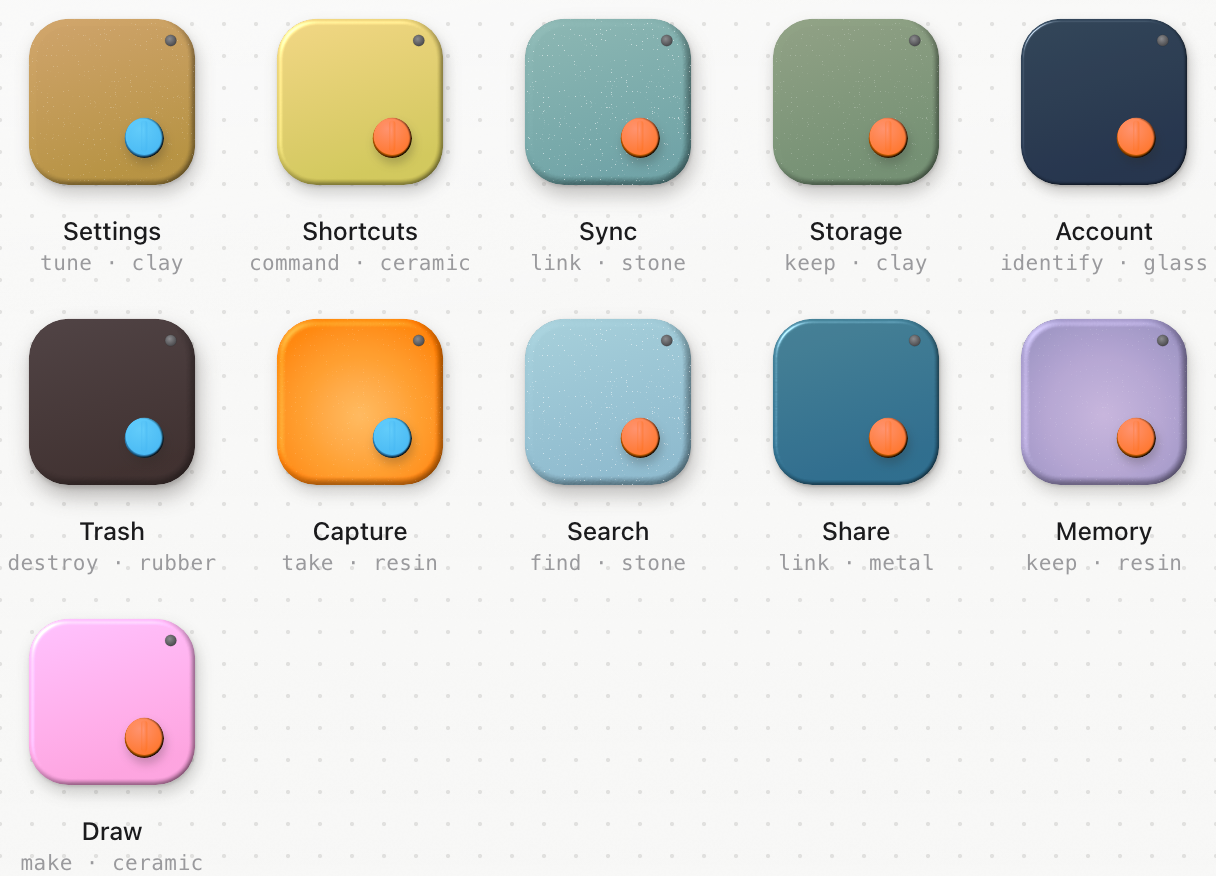
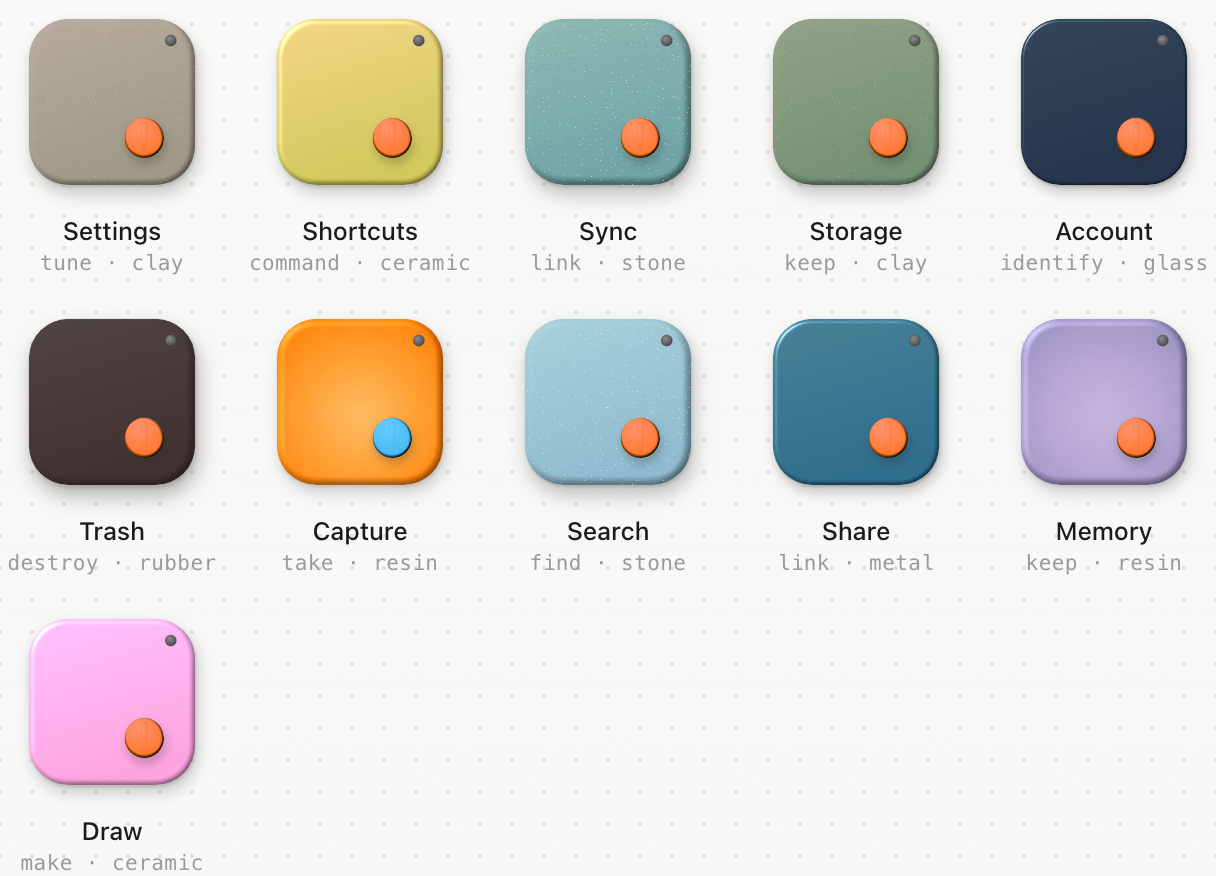
feat(gadgets): grey hardware keeps its orange accent
The accent flips to sky only when the body sits near orange and is colourful
enough to clash (chroma 0.04 or more); a warm grey or near-black body keeps
the house orange. The tune job caps its body chroma at 0.025, so Settings
resolves to warm grey clay with an orange cap, as the reference hardware.
Web and SwiftUI resolve alike (parity fixture regenerated).

Changed region(s): [[0.0, 0.0, 0.1875, 0.2158], [0.0938, 0.4623, 0.1562, 0.524]]

diff --git a/swift/Sources/MetalUI/Tokens/MetalGadgetFeel.generated.swift b/swift/Sources/MetalUI/Tokens/MetalGadgetFeel.generated.swift
@@ -19,7 +19,7 @@ public enum MetalGadgetJob: String, CaseIterable, Sendable {
     public var reach: MetalSoundReach { switch self { case .tune: return .own; case .command: return .own; case .link: return .world; case .keep: return .own; case .identify: return .others; case .destroy: return .own; case .take: return .world; case .find: return .world; case .make: return .own; case .signal: return .own } }
     public var containers: [String] { switch self { case .tune: return ["slab"]; case .command: return ["slab"]; case .link: return ["slab", "free"]; case .keep: return ["slab", "inset"]; case .identify: return ["inset"]; case .destroy: return ["slab"]; case .take: return ["inset"]; case .find: return ["inset"]; case .make: return ["slab", "free"]; case .signal: return ["slab", "inset", "free"] } }
     public var pin: MetalSoundMaterial? { switch self { case .tune: return nil; case .command: return .ceramic; case .link: return nil; case .keep: return nil; case .identify: return .glass; case .destroy: return nil; case .take: return nil; case .find: return .stone; case .make: return nil; case .signal: return nil } }
-    public var bodyChromaMax: Double? { switch self { case .tune: return nil; case .command: return nil; case .link: return nil; case .keep: return nil; case .identify: return nil; case .destroy: return 0.02; case .take: return nil; case .find: return nil; case .make: return nil; case .signal: return nil } }
+    public var bodyChromaMax: Double? { switch self { case .tune: return 0.025; case .command: return nil; case .link: return nil; case .keep: return nil; case .identify: return nil; case .destroy: return 0.02; case .take: return nil; case .find: return nil; case .make: return nil; case .signal: return nil } }
 }
 
 public enum MetalGadgetFeelTokens {
@@ -41,6 +41,7 @@ public enum MetalGadgetFeelTokens {
     public static let accentWarm: (L: Double, C: Double, H: Double) = (0.72, 0.19, 45.0)
     public static let accentCool: (L: Double, C: Double, H: Double) = (0.75, 0.13, 235.0)
     public static let accentFlipWithin: Double = 40.0
+    public static let accentFlipMinChroma: Double = 0.04
     public static let accentMinChroma: Double = 0.13
     public static let setHueGap: Double = 30.0
     public static let setBands: (Double, Double) = (0.78, 0.5)

diff --git a/swift/Sources/MetalUI/Foundation/MetalGadgetFeel.swift b/swift/Sources/MetalUI/Foundation/MetalGadgetFeel.swift
@@ -68,11 +68,11 @@ public enum MetalGadgetModel {
         return MetalOklch(L: L, C: C, H: wrap(station + t.hue.valence * (f.v - 0.5) + t.hue.weight * f.w))
     }
 
-    /// House orange, or sky when the body's hue sits near orange.
-    public static func accent(bodyHue: Double) -> MetalOklch {
+    /// House orange, or sky when the body sits near orange and is colourful enough to clash.
+    public static func accent(bodyHue: Double, bodyChroma: Double = .infinity) -> MetalOklch {
         let t = MetalGadgetFeelTokens.self
         let d = abs((bodyHue - t.accentWarm.H + 540).truncatingRemainder(dividingBy: 360) - 180)
-        let a = d <= t.accentFlipWithin ? t.accentCool : t.accentWarm
+        let a = bodyChroma >= t.accentFlipMinChroma && d <= t.accentFlipWithin ? t.accentCool : t.accentWarm
         return MetalOklch(L: a.L, C: max(a.C, t.accentMinChroma), H: a.H)
     }
 
@@ -85,7 +85,7 @@ public enum MetalGadgetModel {
         let band = b.L >= t.setBands.0 ? 0 : b.L >= t.setBands.1 ? 1 : 2
         return MetalGadgetResolved(job: p.job, feel: p.feel, material: m, materialBy: by, station: station,
                                    container: p.container ?? p.job.containers[0], reach: p.reach ?? p.job.reach,
-                                   body: b, accent: accent(bodyHue: b.H), register: register,
+                                   body: b, accent: accent(bodyHue: b.H, bodyChroma: b.C), register: register,
                                    scale: p.feel.v >= 0.5 ? "major" : "minor", band: band)
     }
 

diff --git a/packages/metalui/src/gadgets/resolve.ts b/packages/metalui/src/gadgets/resolve.ts
@@ -66,9 +66,9 @@ export function bodyColor(job: Job, feel: Feel, material: GadgetMaterial, statio
   return { L, C, H };
 }
 
-/** The accent: house orange, or sky when the body's hue sits near orange. */
-export function accentFor(bodyHue: number): Oklch {
-  const A = GADGETS.accent, near = Math.abs(((bodyHue - A.warm[2] + 540) % 360) - 180) <= A.flipWithinDeg;
+/** The accent: house orange, or sky when the body sits near orange and is colourful enough to clash. */
+export function accentFor(bodyHue: number, bodyC = Infinity): Oklch {
+  const A = GADGETS.accent, near = bodyC >= A.flipMinC && Math.abs(((bodyHue - A.warm[2] + 540) % 360) - 180) <= A.flipWithinDeg;
   const [L, C, H] = near ? A.cool : A.warm;
   return { L, C: Math.max(C, A.minC), H };
 }
@@ -78,7 +78,7 @@ export function resolveFeel(p: Placement): ResolvedFeel {
   const { material, by } = materialFor(p);
   const station = p.station ?? job.stations[0];
   const b = bodyColor(p.job, p.feel, material, station);
-  const a = accentFor(b.H);
+  const a = accentFor(b.H, b.C);
   const [t0, t1] = F.register.thresholds, midi = F.register.baseMidi;
   const [bLight, bMid] = GADGETS.set.bands;
   return {

diff --git a/apps/docs/src/pages/foundations/Gadgets.tsx b/apps/docs/src/pages/foundations/Gadgets.tsx
@@ -257,7 +257,7 @@ export default function Gadgets() {
             ['L', 'weight, valence', `${GADGETS.feel.L.base} ${GADGETS.feel.L.W} × w + ${GADGETS.feel.L.V} × (v − ½), within the material`],
             ['C', 'arousal, valence', `${GADGETS.feel.C.base} + ${GADGETS.feel.C.A} × a × (${GADGETS.feel.C.VMix[0]} + ${GADGETS.feel.C.VMix[1]} × v), capped by the material`],
             ['H', 'job station', `station + ${GADGETS.feel.H.V} × (v − ½) ${GADGETS.feel.H.W} × w`],
-            ['accent', 'body hue', `house orange; sky when the body sits within ${GADGETS.accent.flipWithinDeg}° of orange`],
+            ['accent', 'body hue', `house orange; sky when the body sits within ${GADGETS.accent.flipWithinDeg}° of orange with chroma ${GADGETS.accent.flipMinC} or more`],
             ['beeper', 'weight, valence', 'register from weight (high when light), major when pleased, minor when tense'],
           ]}
         />

diff --git a/packages/metalui/src/gadgets/gadgets.generated.ts b/packages/metalui/src/gadgets/gadgets.generated.ts
@@ -612,7 +612,8 @@ export const GADGETS = {
       "reach": "own",
       "containers": [
         "slab"
-      ]
+      ],
+      "bodyCMax": 0.025
     },
     "command": {
       "stations": [
@@ -720,7 +721,8 @@ export const GADGETS = {
       235
     ],
     "flipWithinDeg": 40,
-    "minC": 0.13
+    "minC": 0.13,
+    "flipMinC": 0.04
   },
   "set": {
     "hueGap": 30,
